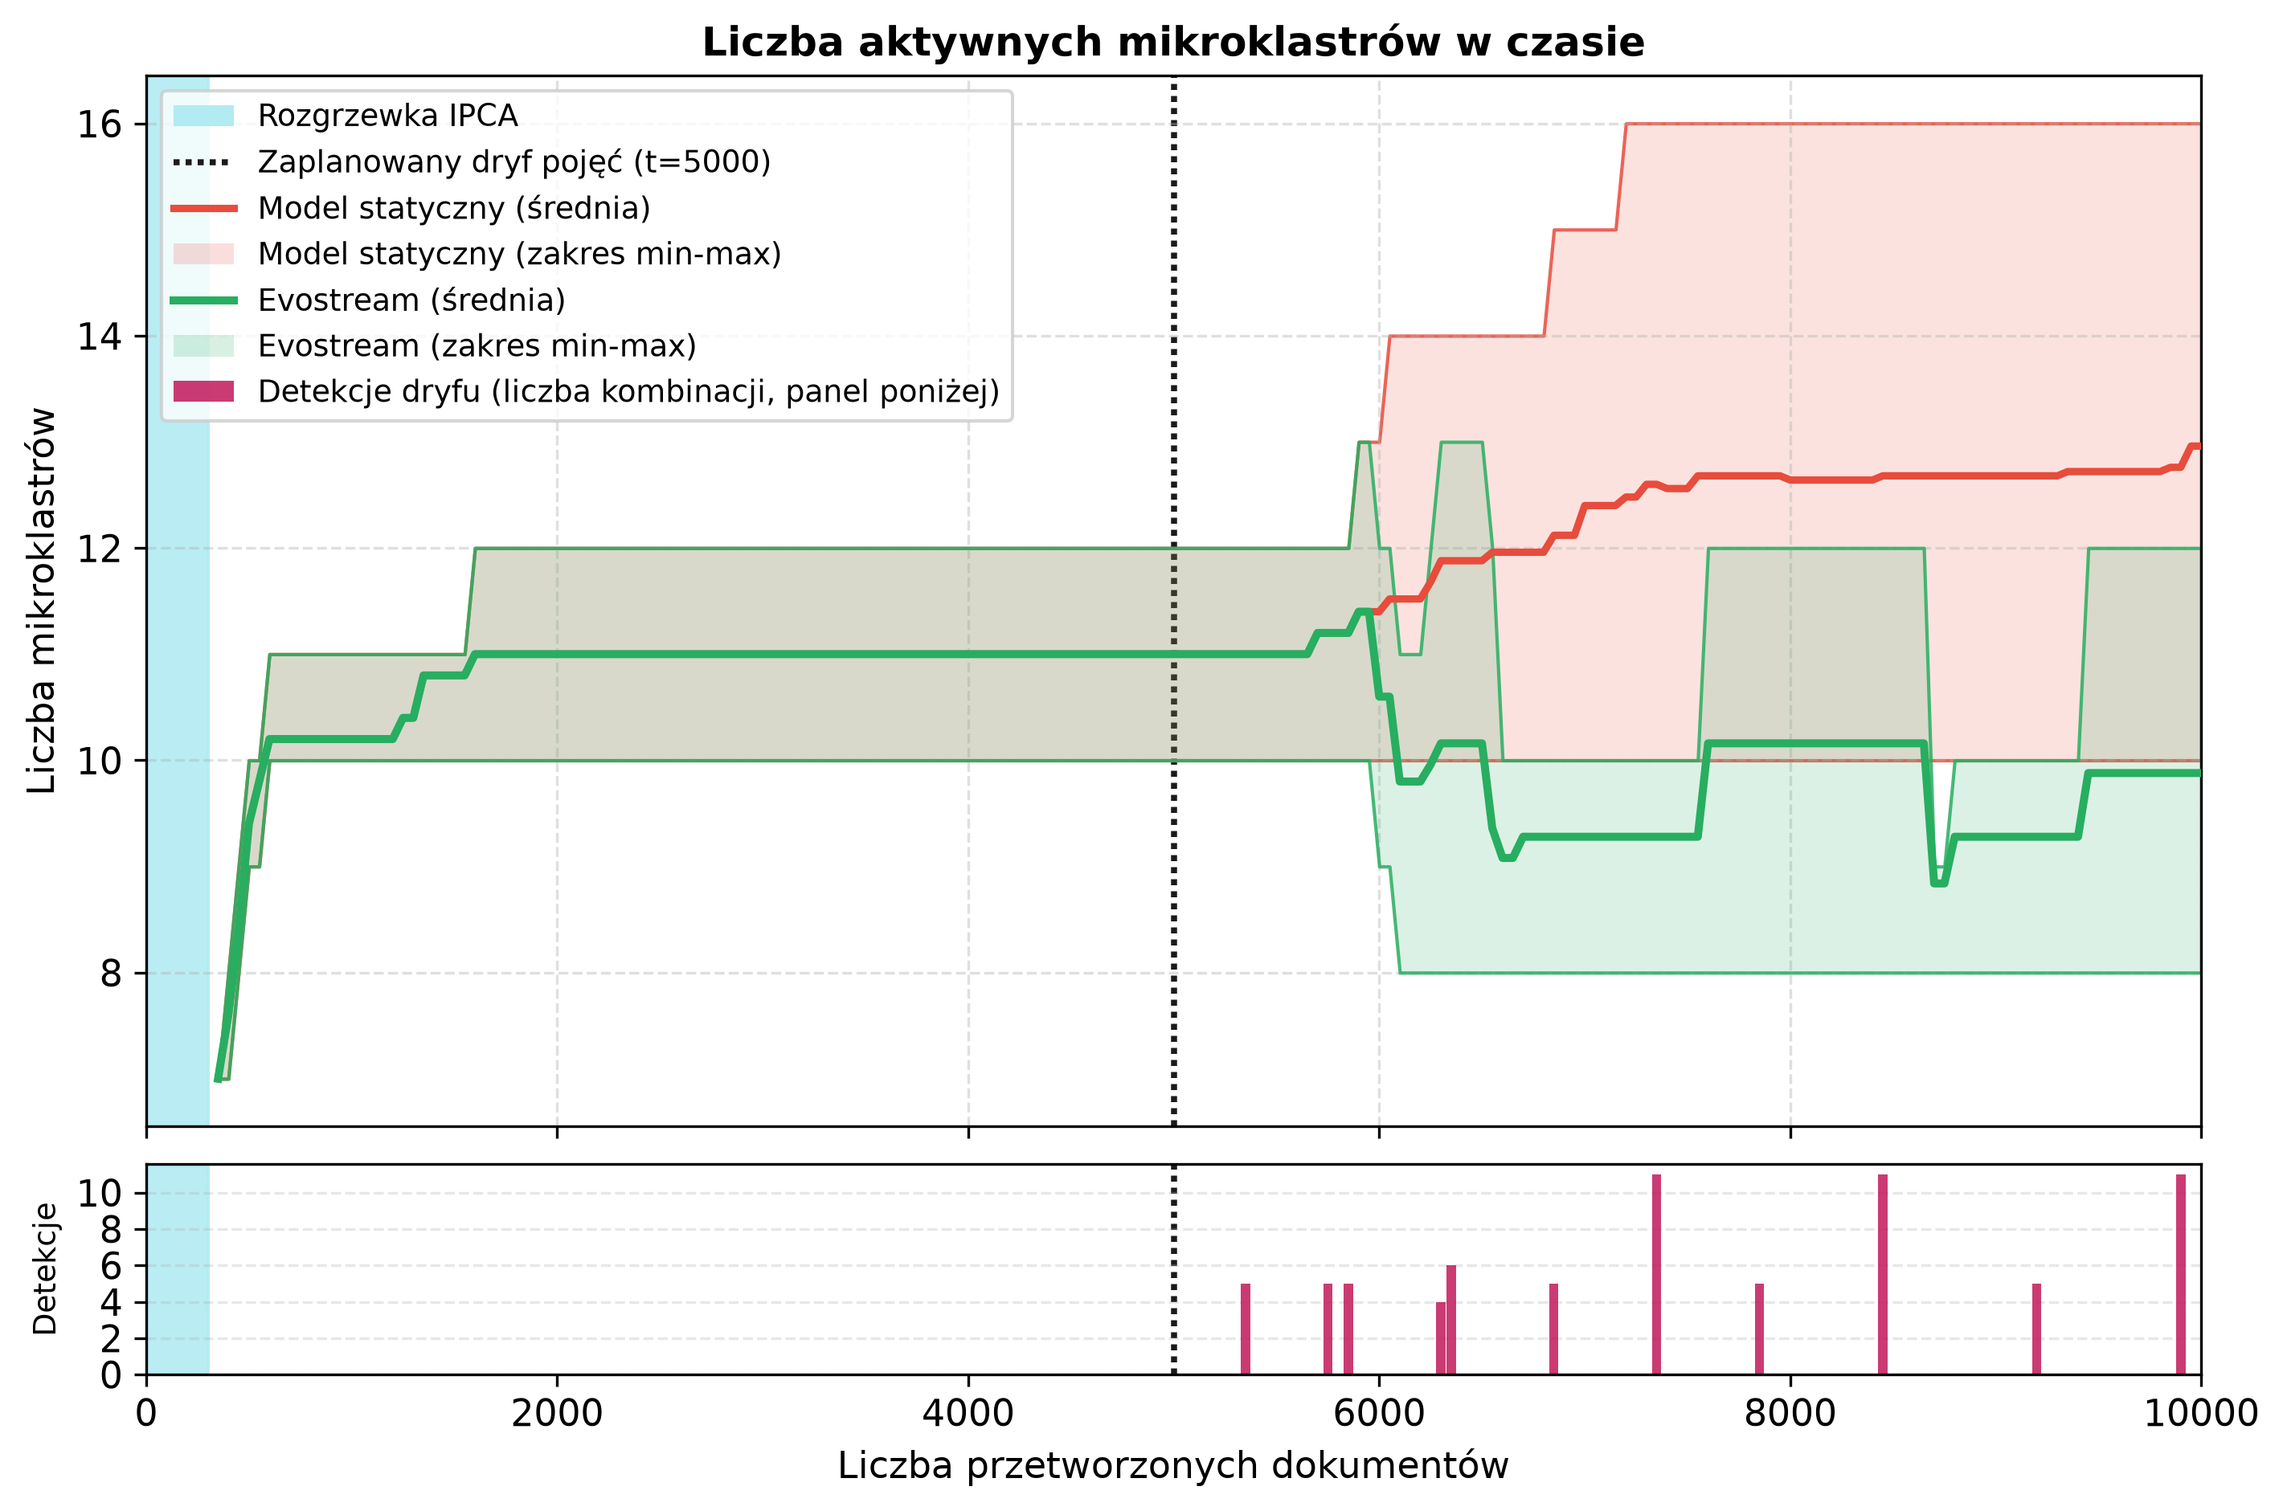
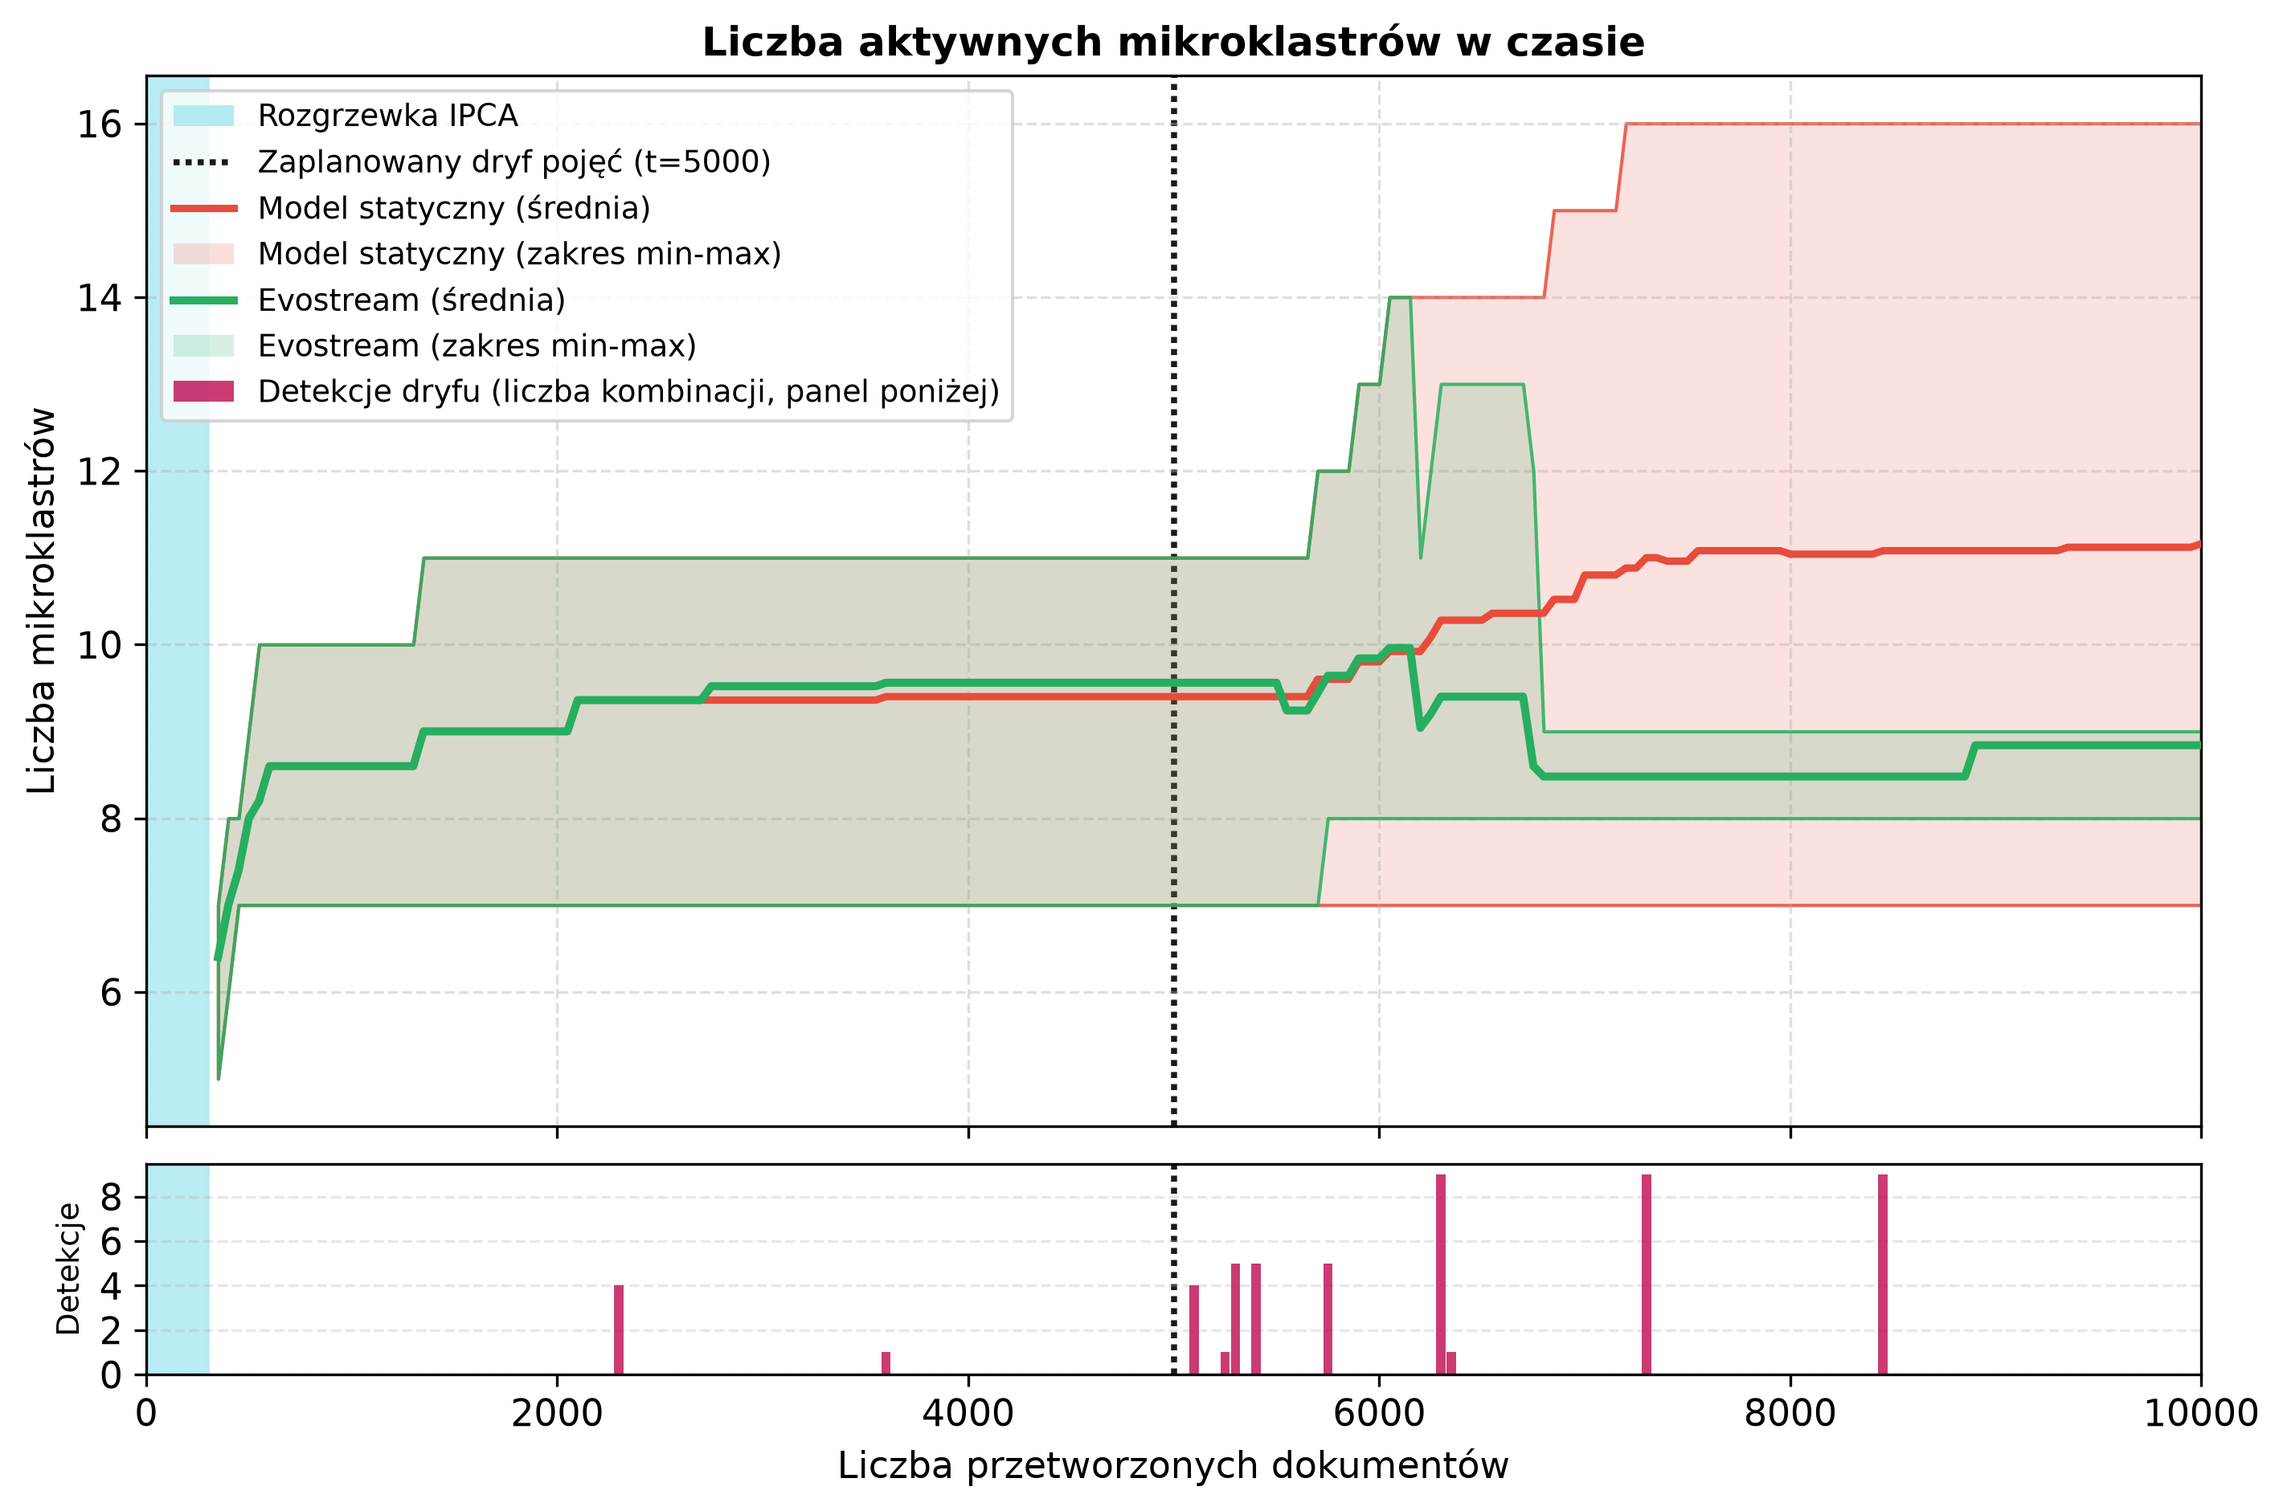
Rerun thesis 2 reproducibly, redo lambda bounds on the system clock, write 4.2
- Thesis 2 sweep runs in worker processes instead of threads; the rerun
  reproduces the previous results exactly (25/25). Final plots updated.
- Lambda bounds experiment redone on the system's time scale (river
  stream_speed=100) on the thesis 2 stream: lambda barely affects quality,
  and pre-drift micro-clusters are absorbed by new data rather than
  forgotten - which motivates the model swap. Bounds kept at [0.005, 0.08].
- Post-swap lambda easing (as in thesis 2) added to the daemon and web UI.
- Drift detector docstring: outlier-weight share peaked at ~2%.
- Thesis text: section 4.2 written; 3.4 lambda part, 2.3.1, 2.5.3, 3.6,
  4.4 and 4.5 updated; no placeholders left.

diff --git a/experiments/param_bounds/lambda/exp_lambda_bounds.py b/experiments/param_bounds/lambda/exp_lambda_bounds.py
@@ -1,0 +1,190 @@
+"""
+Search-space bounds for the DenStream decaying factor lambda (thesis
+section 3.4), measured on the system's own time scale.
+
+River's DenStream advances its clock by one tick every `stream_speed`
+documents (the system uses the default, 100), and a micro-cluster that
+receives no new points loses half its weight every 1 / lambda ticks, i.e.
+every stream_speed / lambda documents. The earlier version of this
+experiment used stream_speed = 1, a clock 100x faster than the system's.
+
+The thesis 2 stream (6 categories, abrupt switch to 6 new categories after
+5000 documents, d = 16, IPCA fitted on the first documents) is processed by
+a static clusterer - no drift detection or adaptation - for a grid of lambda
+values, on several stream orders. For each lambda it records:
+  - clustering quality before the switch (does forgetting hurt a stable
+    stream?) and after it (does it help the model let go of old topics?),
+  - how many of the p-micro-clusters alive at the switch survive 500, 1000,
+    2500 and 5000 documents later.
+"""
+
+import argparse
+import itertools
+from concurrent.futures import ProcessPoolExecutor
+from typing import Tuple
+
+import matplotlib.pyplot as plt
+import numpy as np
+import pandas as pd
+from sklearn.decomposition import IncrementalPCA
+from sklearn.preprocessing import normalize
+
+from experiments.theses.thesis_1.exp_thesis_1_ipca import STREAM_SEEDS, shuffle_stream
+from experiments.theses.thesis_2.exp_thesis_2_drift import (
+    BATCH_SIZE,
+    INITIAL_WARMUP_SIZE,
+    PHASE1_CATEGORIES,
+    SAMPLES_PER_PHASE,
+    _load_or_build_dataset,
+    _load_or_compute_embeddings,
+)
+from src.core.config import config
+from src.domain.clustering import StreamClusterer
+
+RESULTS_DIR = "experiments/param_bounds/lambda/results"
+PCA_DIM = 16
+LAMBDA_GRID = [0.001, 0.0025, 0.005, 0.01, 0.02, 0.04, 0.08, 0.16, 0.32, 0.64, 1.28]
+SURVIVAL_CHECKPOINTS = [500, 1000, 2500, 5000]  # documents after the topic switch
+
+
+def load_drift_stream(seed: int):
+    """Both phases of the thesis 2 stream, each shuffled with the seed; the
+    topic switch stays at document SAMPLES_PER_PHASE."""
+    texts, labels = _load_or_build_dataset()
+    embeddings = _load_or_compute_embeddings(texts)
+    parts = [
+        shuffle_stream(embeddings[start : start + SAMPLES_PER_PHASE], labels[start : start + SAMPLES_PER_PHASE], seed)
+        for start in (0, SAMPLES_PER_PHASE)
+    ]
+    return np.vstack([parts[0][0], parts[1][0]]), parts[0][1] + parts[1][1]
+
+
+def run_one(seed: int, decay: float) -> Tuple[dict, pd.DataFrame]:
+    embeddings, labels = load_drift_stream(seed)
+    ipca = IncrementalPCA(n_components=PCA_DIM).fit(embeddings[:INITIAL_WARMUP_SIZE])
+    clusterer = StreamClusterer(
+        epsilon=config.denstream.epsilon,
+        mu=config.denstream.mu,
+        beta=config.denstream.beta,
+        decaying_factor=decay,
+        n_samples_init=config.denstream.n_samples_init,
+        window_size=config.denstream.window_size,
+        expected_macro_clusters=len(PHASE1_CATEGORIES),
+    )
+
+    records = []
+    # River replaces a micro-cluster with an updated copy whenever it absorbs
+    # a point, so old structures are tracked by their creation time, which
+    # the copies keep: a p-micro-cluster is "old" if it was created before
+    # the topic switch.
+    switch_time = None
+    n_old_at_switch = 0
+    for start in range(INITIAL_WARMUP_SIZE, len(embeddings), BATCH_SIZE):
+        end = start + BATCH_SIZE
+        clusterer.update(normalize(ipca.transform(embeddings[start:end])), labels=labels[start:end])
+        metrics = clusterer.get_metrics()
+        alive = list(clusterer.model.p_micro_clusters.values())
+        if end == SAMPLES_PER_PHASE:
+            switch_time = clusterer.model.timestamp
+            n_old_at_switch = len(alive)
+        survivors = None
+        # Undefined when the model had already forgotten everything by the switch.
+        if n_old_at_switch and end > SAMPLES_PER_PHASE:
+            survivors = sum(mc.creation_time < switch_time for mc in alive) / n_old_at_switch
+        records.append(
+            {
+                "seed": seed,
+                "decaying_factor": decay,
+                "samples_seen": end,
+                "purity": metrics["purity"],
+                "nmi": metrics["nmi"],
+                "n_micro_clusters": metrics["n_micro_clusters"],
+                "old_micro_clusters_alive": survivors,
+            }
+        )
+
+    ts = pd.DataFrame(records)
+    phase1 = ts[ts["samples_seen"] <= SAMPLES_PER_PHASE]
+    phase2 = ts[ts["samples_seen"] > SAMPLES_PER_PHASE]
+    summary = {
+        "seed": seed,
+        "decaying_factor": decay,
+        "half_life_docs": clusterer.model.stream_speed / decay,
+        "purity_before_switch": phase1["purity"].mean(),
+        "nmi_before_switch": phase1["nmi"].mean(),
+        "purity_after_switch": phase2["purity"].mean(),
+        "nmi_after_switch": phase2["nmi"].mean(),
+        "micro_clusters": ts["n_micro_clusters"].mean(),
+        "micro_clusters_at_switch": n_old_at_switch,
+    }
+    for docs in SURVIVAL_CHECKPOINTS:
+        row = phase2[phase2["samples_seen"] == SAMPLES_PER_PHASE + docs]
+        summary[f"old_alive_after_{docs}"] = row["old_micro_clusters_alive"].iloc[0]
+    return summary, ts
+
+
+def plot_quality(summary: pd.DataFrame, out_path: str):
+    plt.rcParams.update({"font.size": 11, "font.family": "serif"})
+    fig, ax = plt.subplots(figsize=(8, 5))
+    for col, label in [("purity_before_switch", "Czystość przed zmianą tematów"), ("purity_after_switch", "Czystość po zmianie tematów")]:
+        ax.errorbar(summary["decaying_factor"], summary[f"{col}_mean"], yerr=summary[f"{col}_std"], marker="o", capsize=4, lw=2, label=label)
+    for bound in config.evolution.param_bounds["decaying_factor"]:
+        ax.axvline(bound, color="grey", linestyle="--", lw=1)
+    ax.set_xscale("log")
+    ax.set_xlabel("Współczynnik wygaszania λ (skala logarytmiczna)")
+    ax.set_ylabel("Średnia czystość")
+    ax.set_title("Wpływ λ na jakość grupowania (model statyczny, ε = %.2f)" % config.denstream.epsilon)
+    ax.grid(True, linestyle="--", alpha=0.6)
+    ax.legend(loc="best")
+    plt.savefig(out_path, dpi=300, bbox_inches="tight")
+    plt.close()
+
+
+def plot_survival(timeseries: pd.DataFrame, out_path: str):
+    plt.rcParams.update({"font.size": 11, "font.family": "serif"})
+    fig, ax = plt.subplots(figsize=(8, 5))
+    after = timeseries[timeseries["samples_seen"] > SAMPLES_PER_PHASE]
+    mean_curves = after.groupby(["decaying_factor", "samples_seen"])["old_micro_clusters_alive"].mean().reset_index()
+    for decay in LAMBDA_GRID:
+        curve = mean_curves[mean_curves["decaying_factor"] == decay]
+        ax.plot(curve["samples_seen"] - SAMPLES_PER_PHASE, curve["old_micro_clusters_alive"], lw=2, label=f"λ = {decay}")
+    ax.set_xlabel("Liczba dokumentów po zmianie tematów")
+    ax.set_ylabel("Odsetek zachowanych p-mikroklastrów sprzed zmiany")
+    ax.set_title("Zapominanie struktur po zmianie tematów")
+    ax.set_ylim(-0.05, 1.05)
+    ax.grid(True, linestyle="--", alpha=0.6)
+    ax.legend(loc="center left", bbox_to_anchor=(1.0, 0.5), fontsize=9)
+    plt.savefig(out_path, dpi=300, bbox_inches="tight")
+    plt.close()
+
+
+def main():
+    parser = argparse.ArgumentParser(description=__doc__.split("\n\n")[0])
+    parser.add_argument("--workers", type=int, default=6)
+    args = parser.parse_args()
+
+    grid = list(itertools.product(STREAM_SEEDS, LAMBDA_GRID))
+    print(f"Running {len(grid)} simulations with {args.workers} worker process(es)...")
+    with ProcessPoolExecutor(max_workers=args.workers) as pool:
+        results = list(pool.map(run_one, *zip(*grid)))
+
+    runs = pd.DataFrame([summary for summary, _ in results])
+    timeseries = pd.concat([ts for _, ts in results], ignore_index=True)
+    metrics = [c for c in runs.columns if c not in ("seed", "decaying_factor")]
+    summary = runs.groupby("decaying_factor")[metrics].agg(["mean", "std"])
+    summary.columns = [f"{m}_{stat}" for m, stat in summary.columns]
+    summary = summary.reset_index()
+
+    runs.to_csv(f"{RESULTS_DIR}/lambda_bounds_runs.csv", index=False)
+    timeseries.to_csv(f"{RESULTS_DIR}/lambda_bounds_timeseries.csv", index=False)
+    summary.to_csv(f"{RESULTS_DIR}/lambda_bounds_summary.csv", index=False)
+    plot_quality(summary, f"{RESULTS_DIR}/lambda_bounds_quality.png")
+    plot_survival(timeseries, f"{RESULTS_DIR}/lambda_bounds_forgetting.png")
+
+    cols = ["decaying_factor", "half_life_docs_mean", "purity_before_switch_mean", "purity_before_switch_std",
+            "purity_after_switch_mean", "purity_after_switch_std", "micro_clusters_mean"] + [f"old_alive_after_{d}_mean" for d in SURVIVAL_CHECKPOINTS]
+    print(summary[cols].round(3).to_string(index=False))
+
+
+if __name__ == "__main__":
+    main()

diff --git a/experiments/theses/thesis_2/run_sweep.py b/experiments/theses/thesis_2/run_sweep.py
@@ -1,21 +1,16 @@
 """
 Runs the (epsilon x decaying_factor) sweep for the thesis-2 drift experiment
-directly in-process - no shelling out to `uv run python -m ... --eps ...`
+directly in Python - no shelling out to `uv run python -m ... --eps ...`
 per combo - then regenerates all plots.
 
-Concurrency is via a thread pool calling run_drift_experiment() as a normal
-Python function. Note: run_drift_experiment() calls set_seed(42) at the top
-of each run, which reseeds the shared global numpy/random/torch RNG state.
-With more than one worker thread, two runs can genuinely interleave on that
-shared state, so which random draws each run consumes is timing-dependent -
-harmless for a quick sanity check, but for a final, reproducible full sweep
-prefer running with --workers 1, or move to separate processes (each has its
-own isolated RNG state) once the experiment logic itself is settled.
+Each combination runs in its own worker process, so every run has its own
+isolated random-number state (run_drift_experiment() seeds it at the start)
+and the results are reproducible whatever the number of workers.
 """
 
 import argparse
 import itertools
-from concurrent.futures import ThreadPoolExecutor, as_completed
+from concurrent.futures import ProcessPoolExecutor, as_completed
 from typing import List, Tuple
 
 from experiments.theses.thesis_2.exp_thesis_2_drift import (
@@ -52,9 +47,9 @@ def main():
     logger.add("logs/thesis_2_drift.log", rotation="500 MB")
 
     combos = QUICK_COMBOS if args.quick else list(itertools.product(SWEEP_EPSILON_VALUES, SWEEP_DECAY_VALUES))
-    print(f"Running {len(combos)} combination(s) with {args.workers} worker thread(s)...")
+    print(f"Running {len(combos)} combination(s) with {args.workers} worker process(es)...")
 
-    with ThreadPoolExecutor(max_workers=args.workers) as pool:
+    with ProcessPoolExecutor(max_workers=args.workers) as pool:
         futures = {pool.submit(run_combo, eps, decay): (eps, decay) for eps, decay in combos}
         for future in as_completed(futures):
             eps, decay = futures[future]

diff --git a/src/domain/clustering.py b/src/domain/clustering.py
@@ -373,6 +373,14 @@ class StreamClusterer:
 
         return metrics_dict
 
+    def ease_decaying_factor(self, target: float, rate: float = 0.9) -> None:
+        """After a model swap: brings a decaying factor raised by NSGA-II back
+        down towards the system's initial value, by `rate` per batch (as in
+        the thesis 2 experiment). Never raises it."""
+        current = self.model.decaying_factor
+        if current > target:
+            self.model.decaying_factor = max(target, current * rate)
+
     def hot_swap_model(
         self,
         new_params: Dict[str, Any],

diff --git a/src/domain/drift.py b/src/domain/drift.py
@@ -17,7 +17,7 @@ class UnsupervisedDriftDetector:
 
     An earlier version also monitored the share of outlier micro-cluster
     weight. It never contributed a detection: on the thesis 2 stream that
-    share stayed below ~1% of the total weight even during the engineered
+    share stayed at or below ~2% of the total weight even during the engineered
     drift, far under any reasonable threshold, so it was removed.
     """
 

diff --git a/src/apps/daemon.py b/src/apps/daemon.py
@@ -188,6 +188,8 @@ class ClusteringDaemon:
                     self.swap_buffer.extend(embeddings)
                     if len(self.swap_buffer) >= config.evolution.hotswap_buffer_size:
                         self._swap_model()
+                else:
+                    self.clusterer.ease_decaying_factor(config.denstream.decaying_factor)
 
                 if self.storage:
                     try:

diff --git a/src/apps/web_ui.py b/src/apps/web_ui.py
@@ -433,6 +433,8 @@ def ingest_batch(current_b_size):
             st.session_state.swap_buffer = []
             st.toast("✅ Wdrożono nowy model (IPCA + DenStream)")
             metrics = st.session_state.clusterer.get_metrics()
+    else:
+        st.session_state.clusterer.ease_decaying_factor(config.denstream.decaying_factor)
 
     st.session_state.history_records.append(
         {
